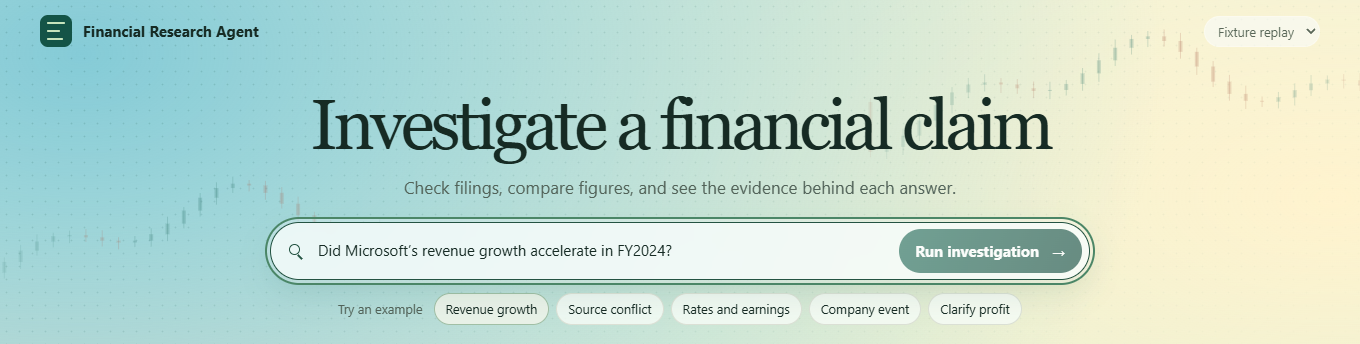
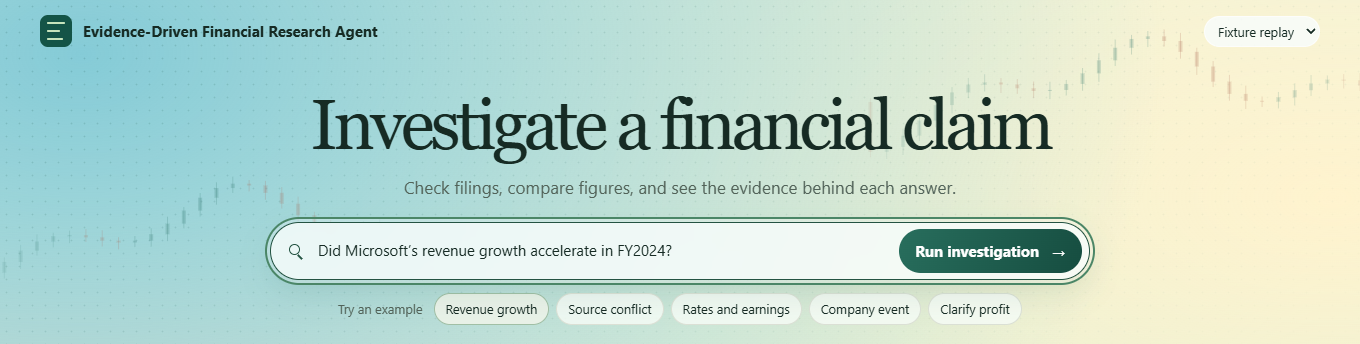
Match the app name to the repository title

Changed region(s): [[0.6485, 0.6686, 0.8029, 0.814], [0.0618, 0.0581, 0.2779, 0.1163], [0.8956, 0.0872, 0.9574, 0.1163]]

diff --git a/financial_research/ui/style.css b/financial_research/ui/style.css
@@ -105,7 +105,7 @@ a { color: var(--green); text-underline-offset: 3px; }
 .shell { width: min(1280px, calc(100% - 64px)); margin: 0 auto; }
 .brandbar { display: flex; align-items: center; justify-content: space-between; min-height: 62px; gap: 12px; }
 .brand { display: flex; align-items: center; gap: 11px; font-size: .91rem; font-weight: 650; letter-spacing: .015em; }
-.mark { width: 32px; height: 32px; padding: 7px; display: grid; grid-template-rows: repeat(3, 2px); align-content: space-between; background: #145447; border-radius: 8px; }
+.mark { flex: none; width: 32px; height: 32px; padding: 7px; display: grid; grid-template-rows: repeat(3, 2px); align-content: space-between; background: #145447; border-radius: 8px; }
 .mark i { height: 2px; background: #c6e4bc; border-radius: 1px; }
 .mark i:nth-child(2) { width: 72%; }
 .mark i:nth-child(3) { width: 87%; }

diff --git a/financial_research/ui/workspace.js b/financial_research/ui/workspace.js
@@ -109,7 +109,7 @@ function header(data, state) {
     return node("header", {class: "masthead"}, node("div", {class: "shell"},
         node("div", {class: "brandbar"},
             node("div", {class: "brand"}, node("span", {class: "mark", "aria-hidden": "true"},
-                node("i"), node("i"), node("i")), "Financial Research Agent"),
+                node("i"), node("i"), node("i")), data.app_name),
             node("div", {class: "mode-control"}, mode)),
         node("div", {class: "hero"}, node("h1", {}, "Investigate a financial claim"),
             node("p", {class: "intro"}, "Check filings, compare figures, and see the evidence behind each answer."),

diff --git a/tests/browser_acceptance.py b/tests/browser_acceptance.py
@@ -25,6 +25,10 @@ def main():
         page = browser.new_page(viewport={"width": 1440, "height": 960})
         page.goto(os.environ.get("RESEARCH_TEST_URL", "http://127.0.0.1:8501/"))
         select_fixture_replay(page)
+        app_name = "Evidence-Driven Financial Research Agent"
+        brand = page.locator(".brand")
+        expect(page).to_have_title(app_name)
+        expect(brand).to_have_text(app_name)
         backdrop = page.locator(".research-app .market-texture")
         expect(backdrop).to_have_attribute("aria-hidden", "true")
         form = page.locator("#research-form")
@@ -132,6 +136,11 @@ def main():
         expect(page.locator(".side-facts")).to_have_text(activity)
         expect(step_times).to_have_text(saved_times)
         page.set_viewport_size({"width": 390, "height": 844})
+        mode = page.get_by_role("combobox", name="Research mode")
+        expect(brand).to_be_visible()
+        expect(mode).to_be_visible()
+        brand_box = brand.bounding_box()
+        assert brand_box["x"] + brand_box["width"] < mode.bounding_box()["x"]
         report_card = page.locator(".panel-main").bounding_box()
         assert support.bounding_box()["y"] > report_card["y"] + report_card["height"]
         sidebar_heading = page.get_by_role("heading", name="Research sessions")

diff --git a/app.py b/app.py
@@ -11,8 +11,9 @@ from financial_research.presentation import workspace_view
 from financial_research.service import ResearchService
 
 ASSETS = Path(__file__).with_name("financial_research") / "ui"
+APP_NAME = "Evidence-Driven Financial Research Agent"
 
-st.set_page_config(page_title="Financial Research Agent", layout="wide")
+st.set_page_config(page_title=APP_NAME, layout="wide")
 st.html("""
 <style>
 [data-testid="stHeader"], #MainMenu { display: none; }
@@ -109,6 +110,7 @@ def research_workspace():
         key="research-workspace",
         on_action_change=lambda: None,
         data={
+            "app_name": APP_NAME,
             "mode": st.session_state.mode,
             "selection": selection,
             "sessions": service.store.sessions(),
